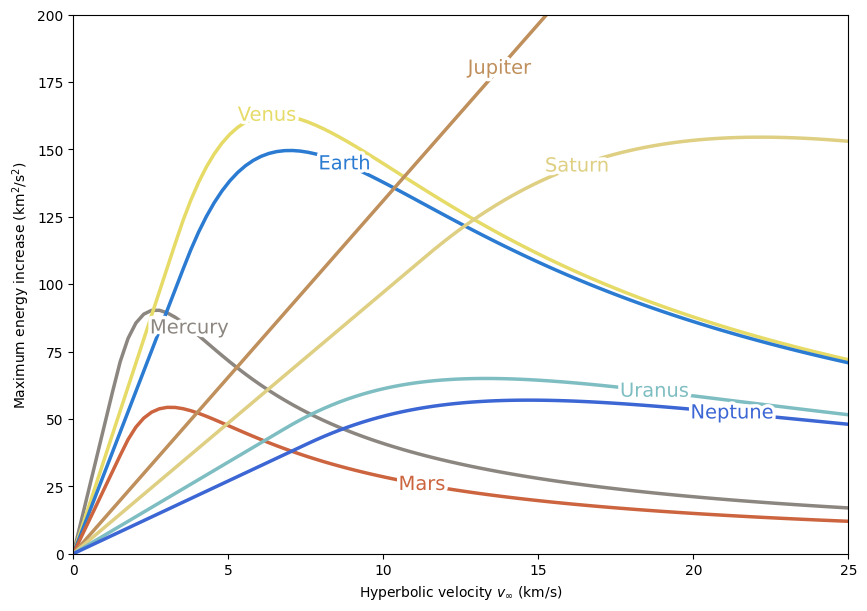
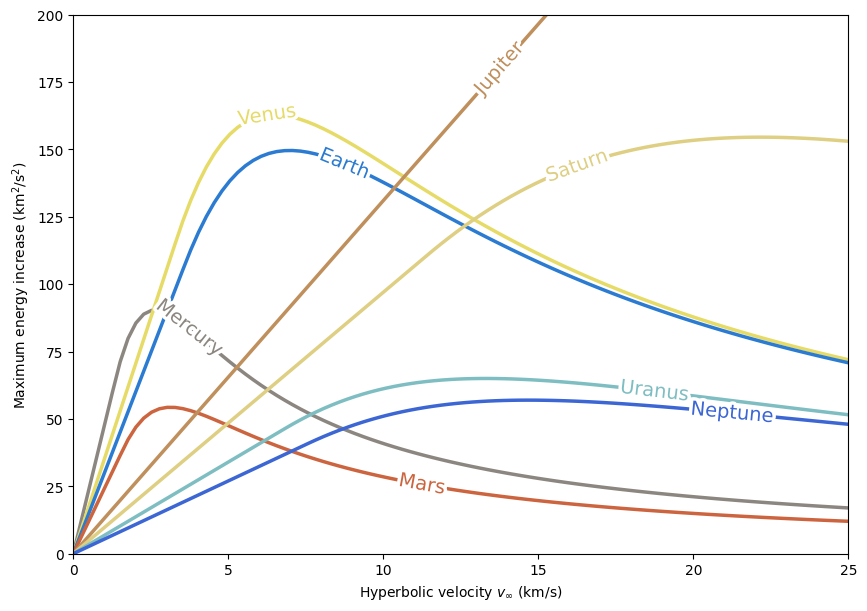
feat: add figure for launchers

diff --git a/bin/mass_vs_c3.py b/bin/mass_vs_c3.py
@@ -1,12 +1,63 @@
 from astropy import units as u
-import matplotlib.pyplot as plt
 import numpy as np
+import matplotlib.pyplot as plt
+from labellines import labelLines
+from scipy.optimize import curve_fit
 
+def exponential_decay(x, a, b, c):
+    return a * np.exp(-b * x) + c
 
+def main():
+    rocket_params = {
+        # See: https://www.researchgate.net/publication/293081475_Mission_opportunities_to_trans-neptunian_objects_-_Part_III_orbital_capture_low-thrust_trajectories_and_vehicle_radiation_environment_during_jovian_flyby
+        'Atlas V 501': {
+            'c3': [0, 10, 20, 30, 40, 50, 70],
+            'payload': [3000, 2000, 1800, 1300, 1000, 800, 100]
+        },
+        'Atlas V 401': {
+            'c3': [0, 10, 20, 30, 40, 50, 70, 80, 90],
+            'payload': [3500, 2900, 2500, 1900, 1500, 1000, 800, 500, 400]
+        },
+        'Atlas V 521': {
+            'c3': [0, 10, 20, 30, 40, 50, 60, 70, 80, 90, 100],
+            'payload': [4500, 3800, 3200, 2300, 2000, 1500, 1300, 900, 700, 500, 200]
+        },
+        'Atlas V 551': {
+            'c3': [0, 10, 20, 30, 40, 50, 60, 70, 80, 90, 100],
+            'payload': [6200, 5200, 4300, 3800, 3000, 2600, 2000, 1500, 1200, 900, 700]
+        },
+        'Atlas V 551 w/Star 48': {
+            'c3': [0, 10, 20, 30, 40, 50, 60, 70, 80, 90, 100],
+            'payload': [6200, 5250, 4350, 4000, 3300, 2800, 2500, 2100, 1800, 1500, 1200]
+        },
+        'Delta IV HLV': {
+            'c3': [0, 10, 20, 30, 40, 50, 60, 70, 80, 90, 100],
+            'payload': [10000, 9000, 7300, 6000, 5000, 4200, 3600, 3000, 2500,
+                        1800, 1400]
+        },
+    }
 
-LAUNCHERS_AND_ISP = {
-    "Falcon Heavy": 311 * u.s,
-    "SLS": 365 * u.s,
-}
+    _, ax = plt.subplots(figsize=(10, 6))
+    for rocket, params in rocket_params.items():
+        c3, payload = params['c3'], params['payload']
+        
+        # Fit exponential curve to the data
+        popt, _ = curve_fit(exponential_decay, c3, payload)
+        
+        # Generate interpolated values using the fitted curve
+        c3_interp = np.linspace(min(c3), max(c3), 1000)
+        payload_interp = exponential_decay(c3_interp, *popt)
+        
+        ax.plot(c3_interp, payload_interp, label=rocket, lw=2.5)
 
+    ax.set_title('Payload mass at given C3 for modern launchers')
+    ax.set_xlabel(r'C3 launch (km$^2$/s$^2$)')
+    ax.set_ylabel('Payload mass (kg)')
+    ax.set_xlim(0, 100)
+    ax.set_ylim(500, 10000)
+    labelLines(ax.get_lines(), align=True, fontsize=14)
+    ax.legend(shadow=True)
+    plt.savefig('fig/static/payload_vs_c3.png', bbox_inches='tight')
 
+if __name__ == '__main__':
+    main()

diff --git a/src/02_targeting/lamberts_problem.tex b/src/02_targeting/lamberts_problem.tex
@@ -73,11 +73,12 @@ in table \ref{tab:lambert-parameters}.
 This work assumes Lambert's problem in the context of the restricted two-body
 problem. This means that the only body exherting a gravitational influence is
 the Sun. Thus, planetary bodies and interlopers are modeled as points with zero
-mass and volume. Their gravitational influence is considered negligible, being
-the only massive body the Sun. The required $\Delta v$ is modeled as an impulse.
-This means that the change in the velocity is instantaneous. Perturbations are
-not considered neither.
+mass and volume. Their gravitational influence is considered negligible except
+for the escape velocity. Thus, the only body exherting a gravitational force
+through the propagation of the spacecraft is the Sun. The required $\Delta v$ is
+modeled as an impulse. This means that the change in the velocity is
+instantaneous. Perturbations are not considered neither.
 
 By sacrifying the accuracy of the model, the computational complexity of the
-problem gets reduced. This reduces the time required to solve the problem.
+problem gets reduced. This lowers the time required to solve the problem.
 Results obtained can be used as a first approximation for further refinement.

diff --git a/src/02_targeting/mission_constraints.tex b/src/02_targeting/mission_constraints.tex
@@ -44,6 +44,17 @@ maximum $\Delta v$ that the spacecraft can achieve. If a spacraft can not reach
 a certain characteristic energy, then the mission is not feasible and the
 target orbit can not be achieved.
 
+The specific energy at launch is related with the payload via
+\ref{eq:tsiolkovsky}. Figure \ref{payload_vs_c3} shows the maximum payload for a
+given characteristic energy for various modern launchers.
+
+\begin{figure}[H]
+  \centering
+  \includegraphics[width=\textwidth]{fig/static/payload_vs_c3}
+   \caption[Maximum payload for a given characteristic energy for various modern]{Maximum payload for a given characteristic energy for various modern launchers.}
+  \label{payload_vs_c3}
+\end{figure}
+
 \subsection{Excess velocity at arrival}
 \label{sec:excess_velocity}
 

diff --git a/bin/deflection_angle.py b/bin/deflection_angle.py
@@ -34,6 +34,6 @@ for planet in planets:
     ax.plot(vh_values, deflection_angles, label=planet.name,
             color=BODY_COLORS[planet.name], lw=2.5)
 
-labelLines(ax.get_lines(), align=False, fontsize=14)
+labelLines(ax.get_lines(), align=True, fontsize=14)
 ax.legend(shadow=True)
 plt.savefig("fig/static/deflection_angle.png", bbox_inches="tight")

diff --git a/bin/max_energy_change.py b/bin/max_energy_change.py
@@ -58,5 +58,5 @@ for planet in PLANETS:
     ax.plot(vh_list, energy, label=planet.name, color=BODY_COLORS[planet.name],
             lw=2.5)
 
-labelLines(ax.get_lines(), align=False, fontsize=14)
+labelLines(ax.get_lines(), align=True, fontsize=14)
 plt.savefig("fig/static/max_energy.png", bbox_inches="tight")
